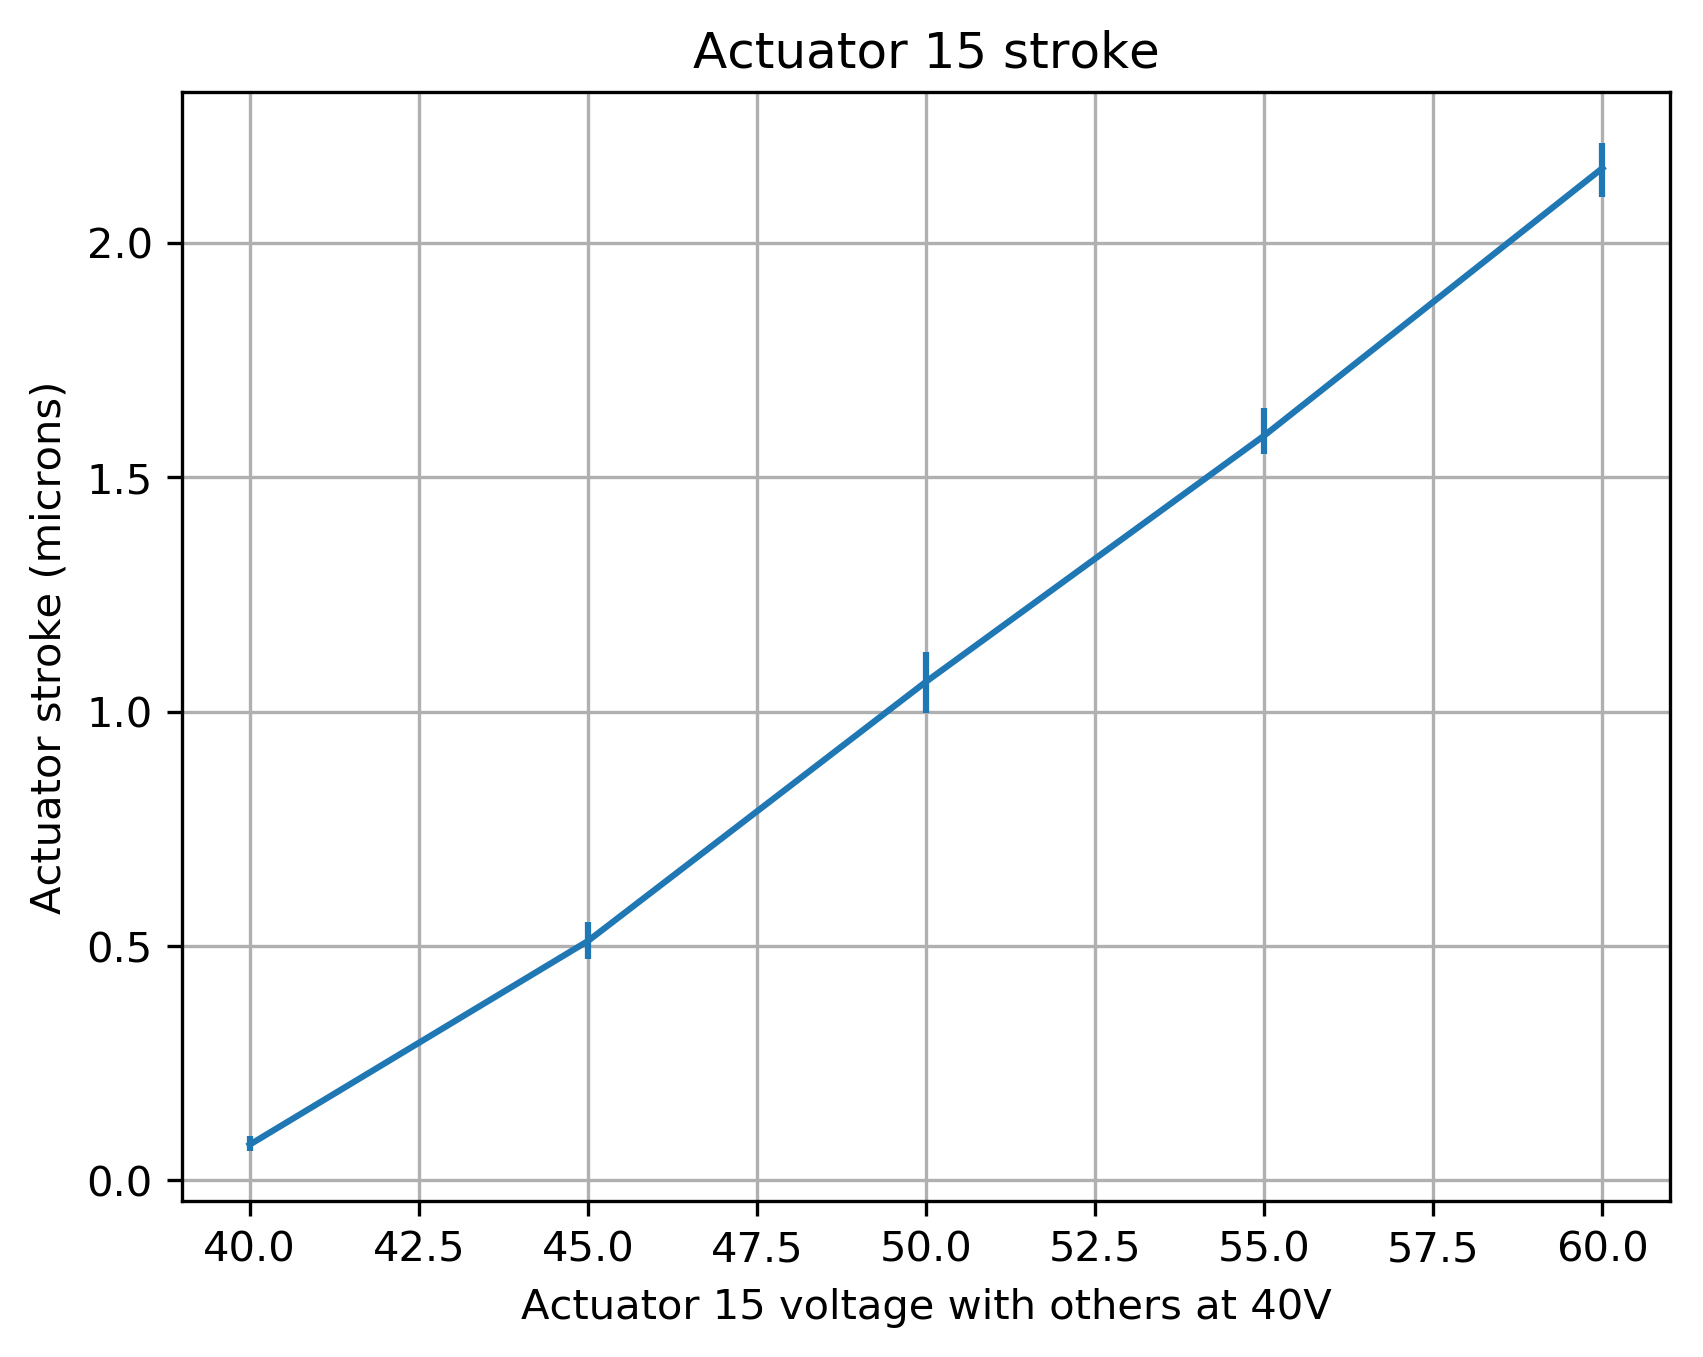
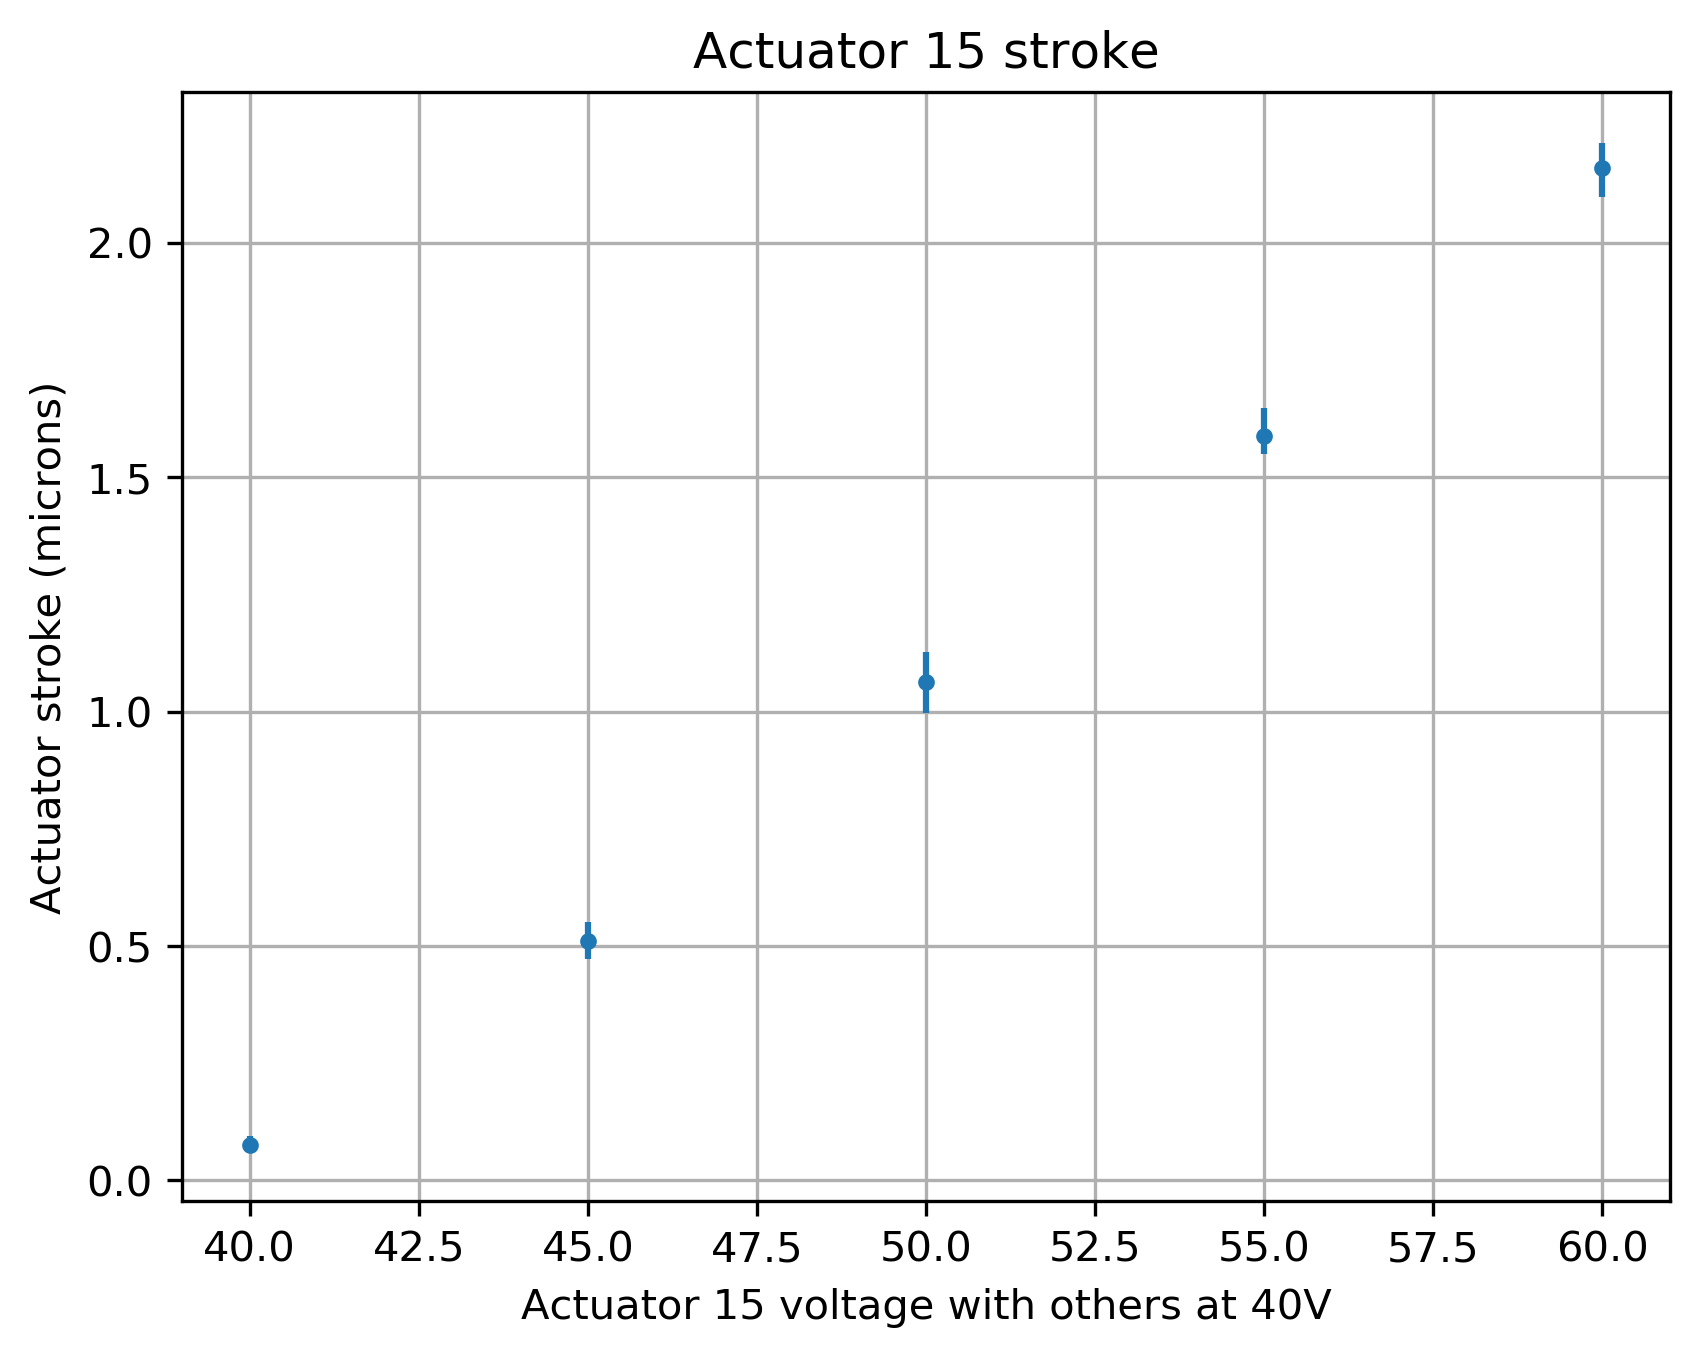
I changed the graphs and some of the plotting functions.

diff --git a/plot_data.py b/plot_data.py
@@ -4,16 +4,15 @@ from mpl_toolkits.mplot3d import Axes3D
 import matplotlib.pyplot as plt
 
 DIRECTORY = "/Act15Test/50/"
-THRESHOLD = -0.9
 
 def plot_data(wavefront_array):
     x = np.linspace(-2,2,wavefront_array.shape[0])
     y = np.linspace(-2,2,wavefront_array.shape[0])
     X, Y = np.meshgrid(x,y)
-    fig = plt.figure(dpi=100)
+    fig = plt.figure(dpi=300)
     ax = fig.add_subplot(111, projection='3d')
 
-    ax.plot_surface(X, Y, wavefront_array, cmap='inferno')
+    ax.plot_surface(X, Y, -wavefront_array, cmap='inferno')
     plt.show()
 
 if __name__ == "__main__":

diff --git a/Act15Test/actuator_stroke.py b/Act15Test/actuator_stroke.py
@@ -21,7 +21,7 @@ if __name__ == "__main__":
     fig = plt.figure(dpi = 300)
 
     plt.grid()
-    plt.errorbar(x,y,yerr=error_bars)
+    plt.errorbar(x,y,yerr=error_bars, fmt='.')
     plt.xlabel('Actuator 15 voltage with others at 40V')
     plt.ylabel('Actuator stroke (microns)')
     plt.title('Actuator 15 stroke')
